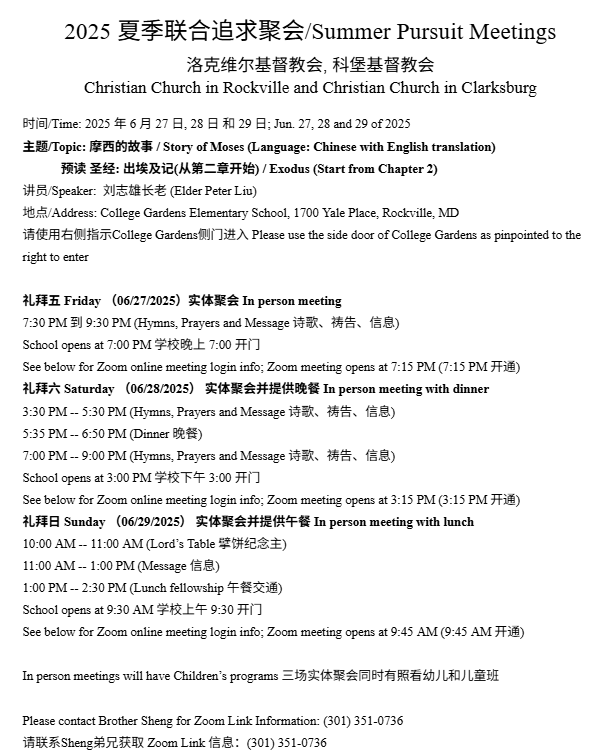
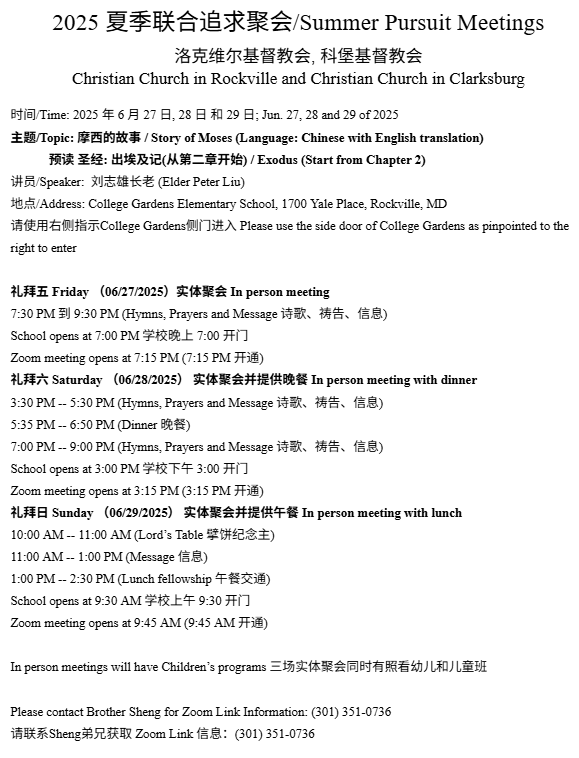
removed zoom

Changed region(s): [[0.0, 0.0, 0.9948, 1.0], [0.6218, 0.3971, 0.6839, 0.4582]]

diff --git a/index.html b/index.html
@@ -74,16 +74,16 @@
                     <p class="text-base text-gray-700">11:00 AM -- 12:30 PM (Message 信息)</p>
                     <p class="text-base text-gray-700">12:30 PM -- 2:30 PM (Lunch fellowship 午餐交通)</p>
                     <p class="text-base text-gray-700">School opens at 9:30 AM 学校开门 9:30</p>
-                    <p class="text-base text-gray-700 mb-6">See below for Zoom online meeting login info; Zoom meeting opens at 9:45 AM (9:45 AM 开会)</p>
+                    <p class="text-base text-gray-700 mb-6">Zoom meeting opens at 9:45 AM (9:45 AM 开会)</p>
 
                     <p class="text-xl font-bold text-gray-800 mb-2">周五 Friday | 在线聚会 Online meeting</p>
                     <p class="text-base text-gray-700">7:30 PM 到 9:30 PM (Hymns, Prayers and Small Group Gatherings 诗歌、祷告、信息)</p>
-                    <p class="text-base text-gray-700 mb-6">See below for Zoom online meeting login info; Zoom meeting opens at 7:15 PM (7:15 PM 开会)</p>
+                    <p class="text-base text-gray-700 mb-6">Zoom meeting opens at 7:15 PM (7:15 PM 开会)</p>
 
                     <p class="text-xl font-bold text-gray-800 mb-2">周三 Wednesday | 在线聚会 Online meeting</p>
                     <p class="text-base text-gray-700">8:00 PM -- 8:30 PM (Hymns 诗歌)</p>
                     <p class="text-base text-gray-700">8:30 PM -- 9:30 PM (Small Group Prayers 祷告)</p>
-                    <p class="text-base text-gray-700 mb-6">See below for Zoom online meeting login info; Zoom meeting opens at 7:30 PM (7:30 PM 开会)</p>
+                    <p class="text-base text-gray-700 mb-6">Zoom meeting opens at 7:30 PM (7:30 PM 开会)</p>
 
                     <p class="text-base text-gray-700 mb-6">In person meetings will have Children&rsquo;s programs 三处实体聚会同时有孩童照顾和孩童节目</p>
 

diff --git a/contact.html b/contact.html
@@ -61,16 +61,16 @@
                 <p class="text-base text-gray-700">11:00 AM -- 1:00 PM (Message 信息)</p>
                 <p class="text-base text-gray-700">1:00 PM -- 2:30 PM (Lunch fellowship 午餐交通)</p>
                 <p class="text-base text-gray-700">School opens at 9:30 AM 学校开门 9:30</p>
-                <p class="text-base text-gray-700 mb-6">See below for Zoom online meeting login info; Zoom meeting opens at 9:45 AM (9:45 AM 开会)</p>
+                <p class="text-base text-gray-700 mb-6">Zoom meeting opens at 9:45 AM (9:45 AM 开会)</p>
 
                 <p class="text-xl font-bold text-gray-800 mb-2">周五 Friday | 在线聚会 Online meeting</p>
                 <p class="text-base text-gray-700">7:30 PM 到 9:30 PM (Hymns, Prayers and Small Group Gatherings 诗歌、祷告、信息)</p>
-                <p class="text-base text-gray-700 mb-6">See below for Zoom online meeting login info; Zoom meeting opens at 7:15 PM (7:15 PM 开会)</p>
+                <p class="text-base text-gray-700 mb-6">Zoom meeting opens at 7:15 PM (7:15 PM 开会)</p>
 
                 <p class="text-xl font-bold text-gray-800 mb-2">周三 Wednesday | 在线聚会 Online meeting</p>
                 <p class="text-base text-gray-700">8:00 PM -- 8:30 PM (Hymns 诗歌)</p>
                 <p class="text-base text-gray-700">8:30 PM -- 9:30 PM (Small Group Prayers 祷告)</p>
-                <p class="text-base text-gray-700 mb-6">See below for Zoom online meeting login info; Zoom meeting opens at 3:15 PM (3:15 PM 开会)</p>
+                <p class="text-base text-gray-700 mb-6">Zoom meeting opens at 3:15 PM (3:15 PM 开会)</p>
 
                 <p class="text-base text-gray-700 mb-6">In person meetings will have Children&rsquo;s programs 三处实体聚会同时有孩童照顾和孩童节目</p>
 
